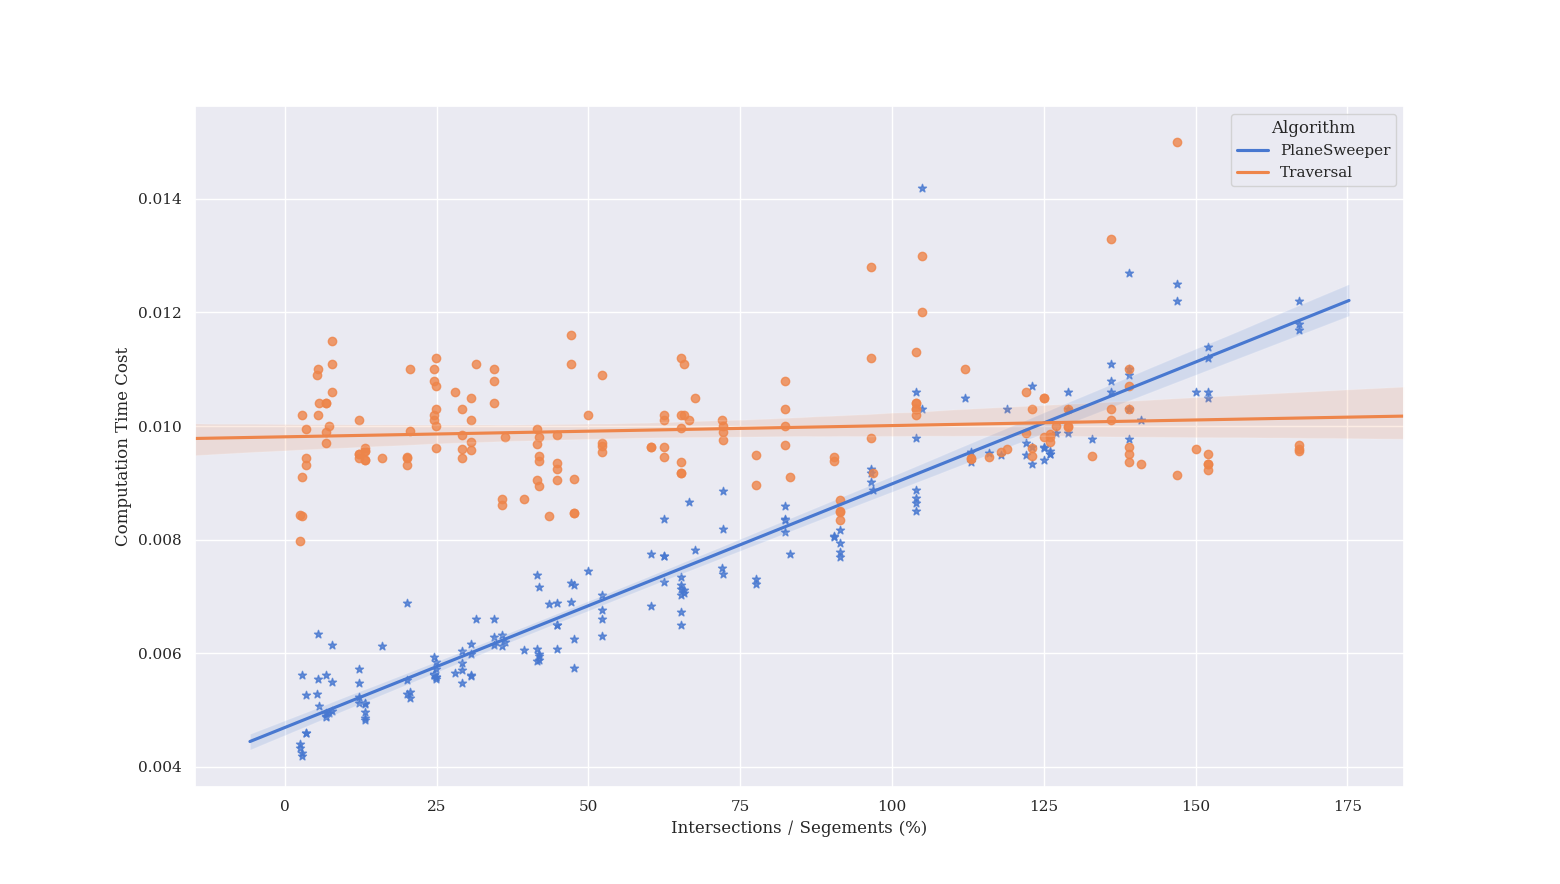
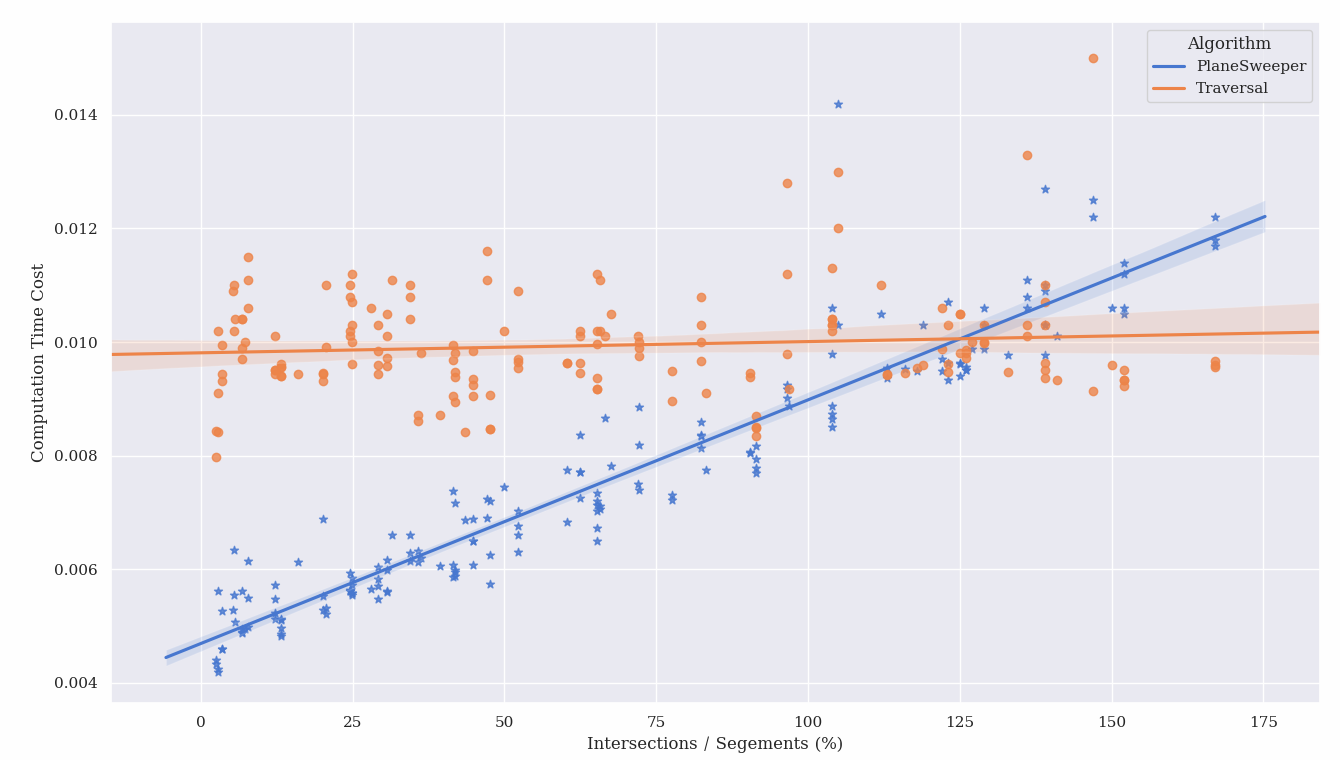
trivial traversal added

diff --git a/main.cpp b/main.cpp
@@ -4,6 +4,7 @@
 #include "Visualizers/Visualizer2D.h"
 #include "Vessels/BinaryTree.h"
 #include "Topics/Line Segment Intersection/PlaneSweepAlgorithm.h"
+#include "Topics/Line Segment Intersection/TrivialTraversalAlgorithm.h"
 
 GeoChain::Utils::GlobalVar g_GlobalVars;
 GeoChain::Utils::GlobalKey g_GlobalKeys;
@@ -186,105 +187,27 @@ GeoChain::Algorithms::PlaneSweeper line_intersection_sweepline(std::vector<GeoCh
 	return plane_sweeper;
 }
 
-std::vector<GeoChain::Algorithms::PointSegmentAffiliation> line_intersection_traversal(
-		std::vector<GeoChain::Euclidean::Segment> *ptr_segs, int repeat_num,
-		std::vector<GeoChain::Euclidean::Point> *intersections) {
+std::vector<GeoChain::Algorithms::PointSegmentAffiliationTraversal> line_intersection_traversal(
+		std::vector<GeoChain::Euclidean::Segment> *ptr_segs, std::vector<GeoChain::Euclidean::Point> *intersection_pts,
+		int repeat_num, bool simplyfy_opt) {
 	using namespace GeoChain;
 	using namespace Euclidean;
 	using namespace Algorithms;
-
-	std::vector<Node<Segment>> node_segs;
-	for (auto &&s_ : (*ptr_segs)) {
-		Node<Segment> seg_node_(&s_);
-		node_segs.push_back(seg_node_);
-	}
-
 	Utils::ExperimentalTimer t_(repeat_num);
-	for (int r = 1; r < repeat_num; r++) {
-		std::vector<PointSegmentAffiliation> inter_info;
-		for (int i_ = 0; i_ < (*ptr_segs).size() - 1; i_++) {
-			std::vector<PointSegmentAffiliation> inter_info_tmp;
-			inter_info_tmp.reserve((*ptr_segs).size());
-			for (int j_ = i_ + 1; j_ < (*ptr_segs).size(); j_++) {
-				Point intersection_ = SegmentIntersection(&((*ptr_segs)[i_]), &((*ptr_segs)[j_]));
-				if (intersection_.status_ == MATR) {
-					int match_index_ = -1;
-					for (int inter_ = 0; inter_ < inter_info_tmp.size(); inter_++) {
-						if (PointCoordSequence(inter_info_tmp[inter_].point_, &intersection_, g_GlobalVars.convention_epsilon) !=
-								EQN) {
-							// not match
-						} else {
-							// match
-							match_index_ = inter_;
-							break;
-						}
-					}
-					if (match_index_ > 0) {
-						// match
-						inter_info_tmp[match_index_].segments_.push_back(&(node_segs[j_]));
-						inter_info_tmp[match_index_].num_ += 1;
-						// LOG(INFO) << "find one existing intersection: (" << intersection_.x_ << "," << intersection_.y_ << ")";
-					} else {
-						// new one
-						intersections->push_back(intersection_);
-						PointSegmentAffiliation info_tmp(EUC2D, (*ptr_segs).size());
-						intersections->push_back(intersection_);
-						info_tmp.point_ = &(intersections->back());
-						info_tmp.segments_.push_back(&(node_segs[j_]));
-						info_tmp.segments_.push_back(&(node_segs[i_]));
-						info_tmp.num_ += 2;
-						inter_info_tmp.push_back(info_tmp);
-						// LOG(INFO) << "find one new intersection: (" << intersection_.x_ << "," << intersection_.y_ << ")";
-					}
-				}
-			}
-			inter_info.insert(inter_info.end(), inter_info_tmp.begin(), inter_info_tmp.end());
-		}
-	}
 
-	std::vector<PointSegmentAffiliation> inter_info;
-	for (int i_ = 0; i_ < (*ptr_segs).size() - 1; i_++) {
-		std::vector<PointSegmentAffiliation> inter_info_tmp;
-		inter_info_tmp.reserve((*ptr_segs).size());
-		for (int j_ = i_ + 1; j_ < (*ptr_segs).size(); j_++) {
-			Point intersection_ = SegmentIntersection(&((*ptr_segs)[i_]), &((*ptr_segs)[j_]));
-			if (intersection_.status_ == MATR) {
-				int match_index_ = -1;
-				for (int inter_ = 0; inter_ < inter_info_tmp.size(); inter_++) {
-					if (PointCoordSequence(inter_info_tmp[inter_].point_, &intersection_, g_GlobalVars.convention_epsilon) !=
-							EQN) {
-						// not match
-					} else {
-						// match
-						match_index_ = inter_;
-						break;
-					}
-				}
-				if (match_index_ > 0) {
-					// match
-					inter_info_tmp[match_index_].segments_.push_back(&(node_segs[j_]));
-					inter_info_tmp[match_index_].num_ += 1;
-					// LOG(INFO) << "find one existing intersection: (" << intersection_.x_ << "," << intersection_.y_ << ")";
-				} else {
-					// new one
-					intersections->push_back(intersection_);
-					PointSegmentAffiliation info_tmp(EUC2D, (*ptr_segs).size());
-					intersections->push_back(intersection_);
-					info_tmp.point_ = &(intersections->back());
-					info_tmp.segments_.push_back(&(node_segs[j_]));
-					info_tmp.segments_.push_back(&(node_segs[i_]));
-					info_tmp.num_ += 2;
-					inter_info_tmp.push_back(info_tmp);
-					// LOG(INFO) << "find one new intersection: (" << intersection_.x_ << "," << intersection_.y_ << ")";
-				}
-			}
-		}
-		inter_info.insert(inter_info.end(), inter_info_tmp.begin(), inter_info_tmp.end());
+	for (int r = 1; r < repeat_num; r++) {
+		intersection_pts->clear();
+		std::vector<PointSegmentAffiliationTraversal> inter_info =
+				SegmentIntersectionTraversal(ptr_segs, intersection_pts, simplyfy_opt);
 	}
+	intersection_pts->clear();
+	std::vector<PointSegmentAffiliationTraversal> inter_info =
+			SegmentIntersectionTraversal(ptr_segs, intersection_pts, simplyfy_opt);
+
 	return inter_info;
 }
 
-void sweepline_test(float range, float expand, int repeat_experiments) {
+void sweepline_test(float range, float expand, int repeat_experiments, bool visual_opt = false) {
 	using namespace GeoChain;
 	using namespace Algorithms;
 	using namespace Euclidean;
@@ -350,37 +273,30 @@ void sweepline_test(float range, float expand, int repeat_experiments) {
 	LOG(INFO) << "[#] sweepline intersections find: " << counter;
 	LOG(INFO) << std::setprecision(g_GlobalVars.visualize_precision)
 						<< "[%] intersections/segments: " << float(counter) / segments.size() * 100 << "%";
-	// visual.Visualize("Sweepline", "Topics/Line Segment Intersection/Sweepline.png");
 
-	// PointSegmentAffiliation root_event(EUC2D, segments.size());
-	// Segment root_status(EUC2D);
-	// Node<PointSegmentAffiliation> ROOT_EVENT(&root_event);
-	// Node<Segment> ROOT_STATUS(&root_status);
-	// PlaneSweeper plane_sweeper(EUC2D, &segments, &ROOT_EVENT, PointComparer2D, &ROOT_STATUS);
-	// int counter = 0;
-	// visual.Draw(plane_sweeper.SweeperState);
-	// visual.Visualize("Sweepline");
-	// while (plane_sweeper.Update()) {
-	// 	LOG(INFO) << "finish sweeping event: " << ++counter;
-	// 	visual.Draw(plane_sweeper.SweeperState);
-	// 	visual.Visualize("Sweepline");
-	// }
-	// LOG(INFO) << "finish sweeping event: " << ++counter;
-
-	std::vector<Point> intersections;
-	intersections.reserve((segments.size() * segments.size() - segments.size()) / 2);
-	std::vector<PointSegmentAffiliation> intersection =
-			line_intersection_traversal(&segments, repeat_experiments, &intersections);
+	std::vector<Point> intersection_pts;
+	intersection_pts.reserve((segments.size() * segments.size() - segments.size()) / 2);
+	std::vector<PointSegmentAffiliationTraversal> intersection =
+			line_intersection_traversal(&segments, &intersection_pts, repeat_experiments, true);
 	for (auto &&inter_ : intersection) {
 		visual_traverse.Draw(*(inter_.point_), std::to_string(inter_.num_));
 	}
 
+	LOG(INFO) << "[#] traversal-optimized intersections find: " << intersection.size();
+	LOG(INFO) << std::setprecision(g_GlobalVars.visualize_precision)
+						<< "[%] intersections/segments: " << float(intersection.size()) / segments.size() * 100 << "%";
+
+	intersection = line_intersection_traversal(&segments, &intersection_pts, repeat_experiments, false);
+
 	LOG(INFO) << "[#] traversal intersections find: " << intersection.size();
 	LOG(INFO) << std::setprecision(g_GlobalVars.visualize_precision)
 						<< "[%] intersections/segments: " << float(intersection.size()) / segments.size() * 100 << "%";
-	// visual_traverse.Visualize("Traversal", "Topics/Line Segment Intersection/Traversal.png");
 
-	cv::destroyAllWindows();
+	if (visual_opt) {
+		visual.Visualize("Sweepline", "Topics/Line Segment Intersection/Sweepline.png");
+		visual_traverse.Visualize("Traversal", "Topics/Line Segment Intersection/Traversal.png");
+		cv::destroyAllWindows();
+	}
 }
 
 int main(int argc, char **argv) {
@@ -399,7 +315,7 @@ int main(int argc, char **argv) {
 	// visualizer_test();
 	// avltree_test();
 
-	// sweepline_test(2.0, 2.0, 1);
+	// sweepline_test(10.0, 4.0, 1, true);
 
 	for (float exp_ = 1.2; exp_ < 4.5; exp_ += 0.1) {
 		for (int expr_ = 0; expr_ < 5; expr_ += 1) {

diff --git a/Topics/Line Segment Intersection/TrivialTraversalAlgorithm.h b/Topics/Line Segment Intersection/TrivialTraversalAlgorithm.h
@@ -1,0 +1,112 @@
+#include "ElementaryElements.h"
+#include "BinaryTree.h"
+#include "ElementaryArithmetics.h"
+
+#include <algorithm>
+
+namespace GeoChain {
+namespace Algorithms {
+
+using namespace Euclidean;
+
+struct PointSegmentAffiliationTraversal {
+	kDimension dim_;
+	Point *point_;
+	std::vector<Segment *> segments_ = std::vector<Segment *>();
+	std::vector<int> seg_indeces_ = std::vector<int>();
+	int num_ = 0;
+
+	PointSegmentAffiliationTraversal(kDimension dim, int num_segs, Point *pt) : dim_(dim), point_(pt) {
+		this->segments_.reserve(num_segs);
+		this->seg_indeces_.reserve(num_segs);
+	};
+
+	PointSegmentAffiliationTraversal(kDimension dim, int num_segs) : dim_(dim) {
+		this->segments_.reserve(num_segs);
+		this->seg_indeces_.reserve(num_segs);
+	};
+	// if only data but not ptr here is useful, reservation is unnecessary
+	PointSegmentAffiliationTraversal(kDimension dim) : dim_(dim){};
+};
+
+std::vector<PointSegmentAffiliationTraversal> SegmentIntersectionTraversal(std::vector<Segment> *ptr_segs,
+																																					 std::vector<Point> *intersection_pts,
+																																					 bool simplify_opt = true) {
+	std::map<int, std::vector<int>> jump_dict;
+	std::vector<PointSegmentAffiliationTraversal> inter_info;
+
+	for (int i_ = 0; i_ < (*ptr_segs).size() - 1; i_++) {
+		std::vector<PointSegmentAffiliationTraversal> inter_info_tmp;
+		std::vector<int> jump_list;
+		if (simplify_opt) {
+			std::map<int, std::vector<int>>::iterator ptr_jump_tmp = jump_dict.find(i_);
+			if (ptr_jump_tmp != jump_dict.end()) {
+				jump_list = ptr_jump_tmp->second;
+			} else {
+				jump_list = std::vector<int>();
+			}
+		}
+		for (int j_ = i_ + 1; j_ < (*ptr_segs).size(); j_++) {
+			if (simplify_opt) {
+				std::vector<int>::iterator ptr_jump_ = find(jump_list.begin(), jump_list.end(), j_);
+				if (ptr_jump_ != jump_list.end()) {
+					continue;
+				}
+			}
+			Point intersection_ = SegmentIntersection(&((*ptr_segs)[i_]), &((*ptr_segs)[j_]));
+			if (intersection_.status_ != MATR) {
+				continue;
+			}
+			int match_index_ = -1;
+			std::vector<PointSegmentAffiliationTraversal> inter_info_hist;
+			std::vector<PointSegmentAffiliationTraversal> *ptr_inter_info_hist;
+			if (simplify_opt) {
+				ptr_inter_info_hist = &inter_info_tmp;
+			} else {
+				inter_info_hist.insert(inter_info_hist.end(), inter_info.begin(), inter_info.end());
+				inter_info_hist.insert(inter_info_hist.end(), inter_info_tmp.begin(), inter_info_tmp.end());
+				ptr_inter_info_hist = &inter_info_hist;
+			}
+			for (int inter_ = 0; inter_ < ptr_inter_info_hist->size(); inter_++) {
+				if (PointCoordSequence((*ptr_inter_info_hist)[inter_].point_, &intersection_,
+															 g_GlobalVars.convention_epsilon) != EQN) {
+					// not match
+				} else {
+					// match
+					match_index_ = inter_;
+					break;
+				}
+			}
+			if (match_index_ > 0) {
+				// match
+				(*ptr_inter_info_hist)[match_index_].segments_.push_back(&((*ptr_segs)[j_]));
+				(*ptr_inter_info_hist)[match_index_].num_ += 1;
+				for (int index_ = 1; index_ < (*ptr_inter_info_hist)[match_index_].seg_indeces_.size(); index_++) {
+					std::map<int, std::vector<int>>::iterator ptr_jump_index_tmp = jump_dict.find(index_);
+					if (ptr_jump_index_tmp != jump_dict.end()) {
+						jump_dict[index_] = std::vector<int>(j_);
+					} else {
+						jump_dict[index_].push_back(j_);
+					}
+				}
+				(*ptr_inter_info_hist)[match_index_].seg_indeces_.push_back(j_);
+				// LOG(INFO) << "find one existing intersection: (" << intersection_.x_ << "," << intersection_.y_ << ")";
+			} else {
+				// new one
+				intersection_pts->push_back(intersection_);
+				PointSegmentAffiliationTraversal info_tmp(EUC2D, (*ptr_segs).size(), &(intersection_pts->back()));
+				info_tmp.segments_.push_back(&((*ptr_segs)[i_]));
+				info_tmp.segments_.push_back(&((*ptr_segs)[j_]));
+				info_tmp.num_ += 2;
+				info_tmp.seg_indeces_.push_back(i_);
+				info_tmp.seg_indeces_.push_back(j_);
+				inter_info_tmp.push_back(info_tmp);
+				// LOG(INFO) << "find one new intersection: (" << intersection_.x_ << "," << intersection_.y_ << ")";
+			}
+		}
+		inter_info.insert(inter_info.end(), inter_info_tmp.begin(), inter_info_tmp.end());
+	}
+	return inter_info;
+}
+}	// namespace Algorithms
+}	// namespace GeoChain

diff --git a/Topics/Line Segment Intersection/analysis.py b/Topics/Line Segment Intersection/analysis.py
@@ -1,6 +1,8 @@
 import seaborn as sns
 import matplotlib.pyplot as plt
 import pandas as pd
+import numpy as np
+from copy import deepcopy
 
 sns.set(font='DejaVu Math TeX Gyre', style='darkgrid')
 
@@ -10,37 +12,48 @@ def parse_line(line_text):
         return line_text.split(": ")[-1].split(" ")[0]
     elif '[%]' in line_text:
         return line_text.split(": ")[-1][:-2]
-    # elif '[#]' in line_text:
-    #     return line_text.split(": ")[-1][:-1]
+    elif '[#]' in line_text:
+        return line_text.split(": ")[-1][:-1]
     else:
         return False
 
 
 if __name__ == "__main__":
 
+    hue_dict = {0: "PlaneSweep", 1: "TrivialTraversal-Optimized", 2: "TrivialTraversal"}
     with open('../../logs/geochain.INFO', 'r') as f:
         lines = f.readlines()
         result_list = []
         counter = 0
+        hue_counter = 0
         result_tmp = []
         for l in lines:
             this_line = parse_line(l)
             if this_line != False:
                 counter += 1
                 result_tmp.append(float(this_line))
-                if counter == 4:
+                if counter % 3 == 0:
+                    result_tmp.append(hue_dict[hue_counter % len(hue_dict)])
                     result_list.append(result_tmp)
-                    counter = 0
+                    hue_counter += 1
                     result_tmp = []
     print(counter, result_list)
-    data = pd.DataFrame(result_list, columns=["sweepline", "inters/segments(%)", "traversal", "inters/segments(%)"])
-    df = data.iloc[:, [1, 0, 2]]
+    data = pd.DataFrame(result_list, columns=["timecost", "intersection", "intersections/segments(%)", "algorithm"])
+    df = data.iloc[:, [3, 2, 0, 1]]
     print(df)
+    diff_df = deepcopy(df[df['algorithm'] != hue_dict[2]])
+    diff_df.reset_index(inplace=True, drop=True)
+    diff_df.loc[diff_df['algorithm'] == hue_dict[0], 'intersection'] = np.array(diff_df.loc[diff_df['algorithm'] == hue_dict[0], 'intersection']) - np.array(df[df['algorithm'] == hue_dict[2]]['intersection'])
+    diff_df.loc[diff_df['algorithm'] == hue_dict[1], 'intersection'] = np.array(diff_df.loc[diff_df['algorithm'] == hue_dict[1], 'intersection']) - np.array(df[df['algorithm'] == hue_dict[2]]['intersection'])
+    print(diff_df)
 
     with sns.color_palette('muted', 16):
-        plot_1 = sns.regplot(x=df["inters/segments(%)"], y=df["sweepline"], ci=95, marker='*')
-        plot_2 = sns.regplot(x=df["inters/segments(%)"], y=df["traversal"], ci=95, marker='o')
+        plot_1 = sns.lmplot(x="intersections/segments(%)", y="timecost", hue="algorithm", data=df, ci=95, markers=['*', '+', 'o'], legend=True, legend_out=False, order=2)
         plt.xlabel("Intersections / Segements (%)")
         plt.ylabel("Computation Time Cost")
-        plt.legend(title='Algorithm', loc='upper right', labels=['PlaneSweeper', 'Traversal'])
+        plt.show()
+
+        plot_2 = sns.lmplot(x="intersections/segments(%)", y="intersection", hue="algorithm", data=diff_df, ci=95, markers=['*', '+'], legend=True, legend_out=False, order=2)
+        plt.xlabel("Intersections / Segements (%)")
+        plt.ylabel("Intersections Number Diff")
         plt.show()

diff --git a/Topics/Line Segment Intersection/ReadMe.md b/Topics/Line Segment Intersection/ReadMe.md
@@ -3,13 +3,14 @@
 ## Time Cost Experiments
 
 <div align=center>
-<img src="https://github.com/ChenZhouUC/GeoChain/blob/master/Topics/Line%20Segment%20Intersection/analysis_1.png" alt="sweepline_anal1" width="1000" height="565"/>
-<img src="https://github.com/ChenZhouUC/GeoChain/blob/master/Topics/Line%20Segment%20Intersection/analysis_2.png" alt="sweepline_anal2" width="1000" height="528"/>
+<img src="https://github.com/ChenZhouUC/GeoChain/blob/master/Topics/Line%20Segment%20Intersection/analysis_1.png" alt="sweepline_anal1" width="1000" height="567"/>
+<img src="https://github.com/ChenZhouUC/GeoChain/blob/master/Topics/Line%20Segment%20Intersection/analysis_2.png" alt="sweepline_anal2" width="1000" height="479"/>
+<img src="https://github.com/ChenZhouUC/GeoChain/blob/master/Topics/Line%20Segment%20Intersection/analysis_3.png" alt="sweepline_anal3" width="1000" height="511"/>
 </div>
 
-The above plots showed that the comparison of Plane Sweep Algorithm vs Trivial Traversal Algorithm. We can easily find that the time cost by Plane Sweep Algorithm is especially sensitive to #intersections/#segments. The upper one used traversal method to find all the intersections but not the segments they belonged to, while the lower one considered both intersections and the segments relationship.
+The above plots showed that the comparison of Plane Sweep Algorithm vs Trivial Traversal Algorithm. We can easily find that the time cost by Plane Sweep Algorithm is especially sensitive to #intersections/#segments. The upper one used traversal method to find all the intersections but not the segments they belonged to, while the lower two considered both intersections and the segments relationship.
 
-Only when #intersections/#segments is less than 200% or so could the Plane Sweep Algorithm be an optimal choice. That is to say, for certain problems where segments tend to be far away from each other, Plane Sweep Algrithm should be a better way to find out all the intersections. Otherwise one may use Trivial Traversal Algorithm instead, since it costs less time and claims less space.
+Only when #intersections/#segments is less than 200% or so could the Plane Sweep Algorithm be an optimal choice. That is to say, for certain problems where segments tend to be far away from each other, Plane Sweep Algrithm should be a better way to find out all the intersections. Otherwise one may use Trivial Traversal Algorithm (Optimized) instead, since it costs less time and space but claims better accuracy, as showed in the bottom plot.
 
 <div align=center>
 <img src="https://github.com/ChenZhouUC/GeoChain/blob/master/Topics/Line%20Segment%20Intersection/Sweepline.png" alt="sweepline" width="400" height="390"/>
